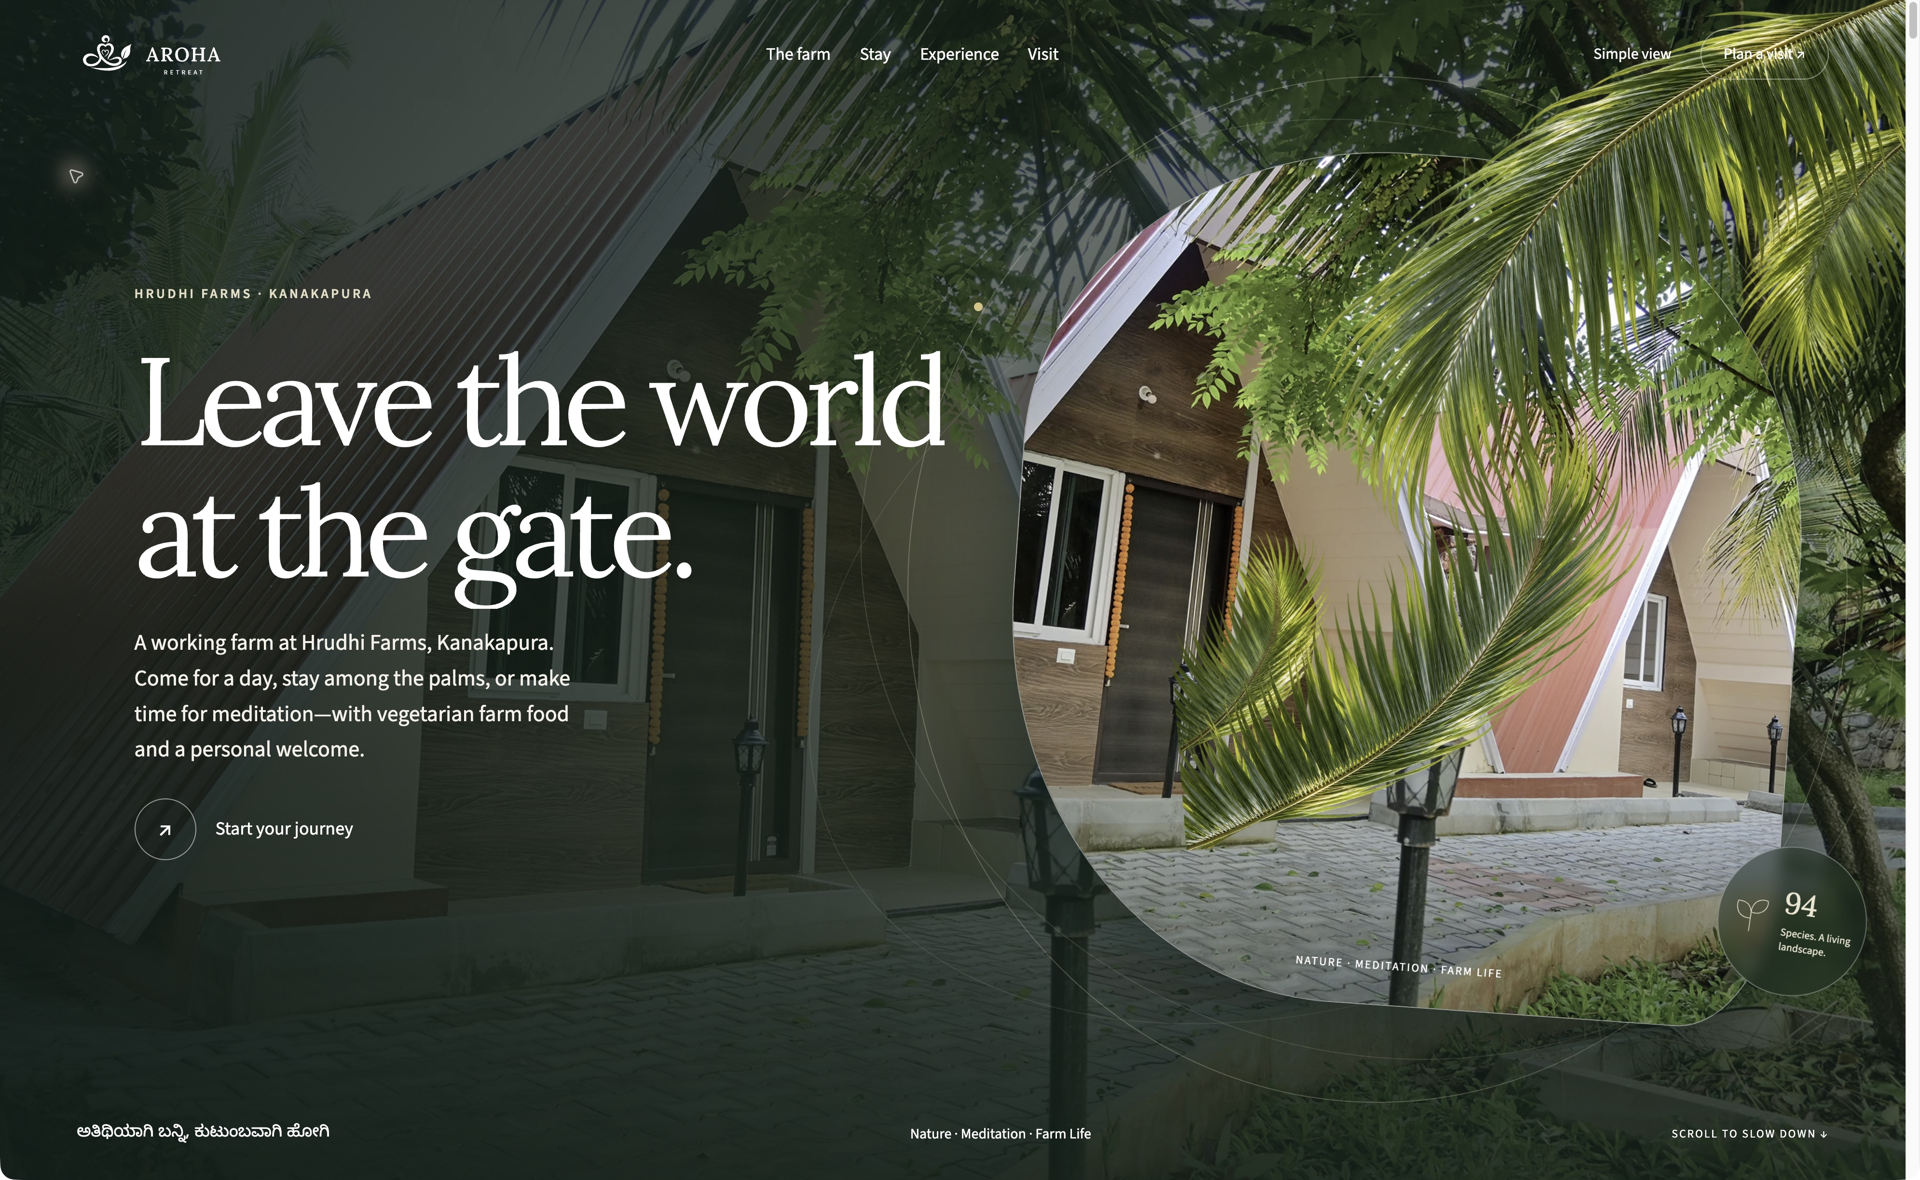
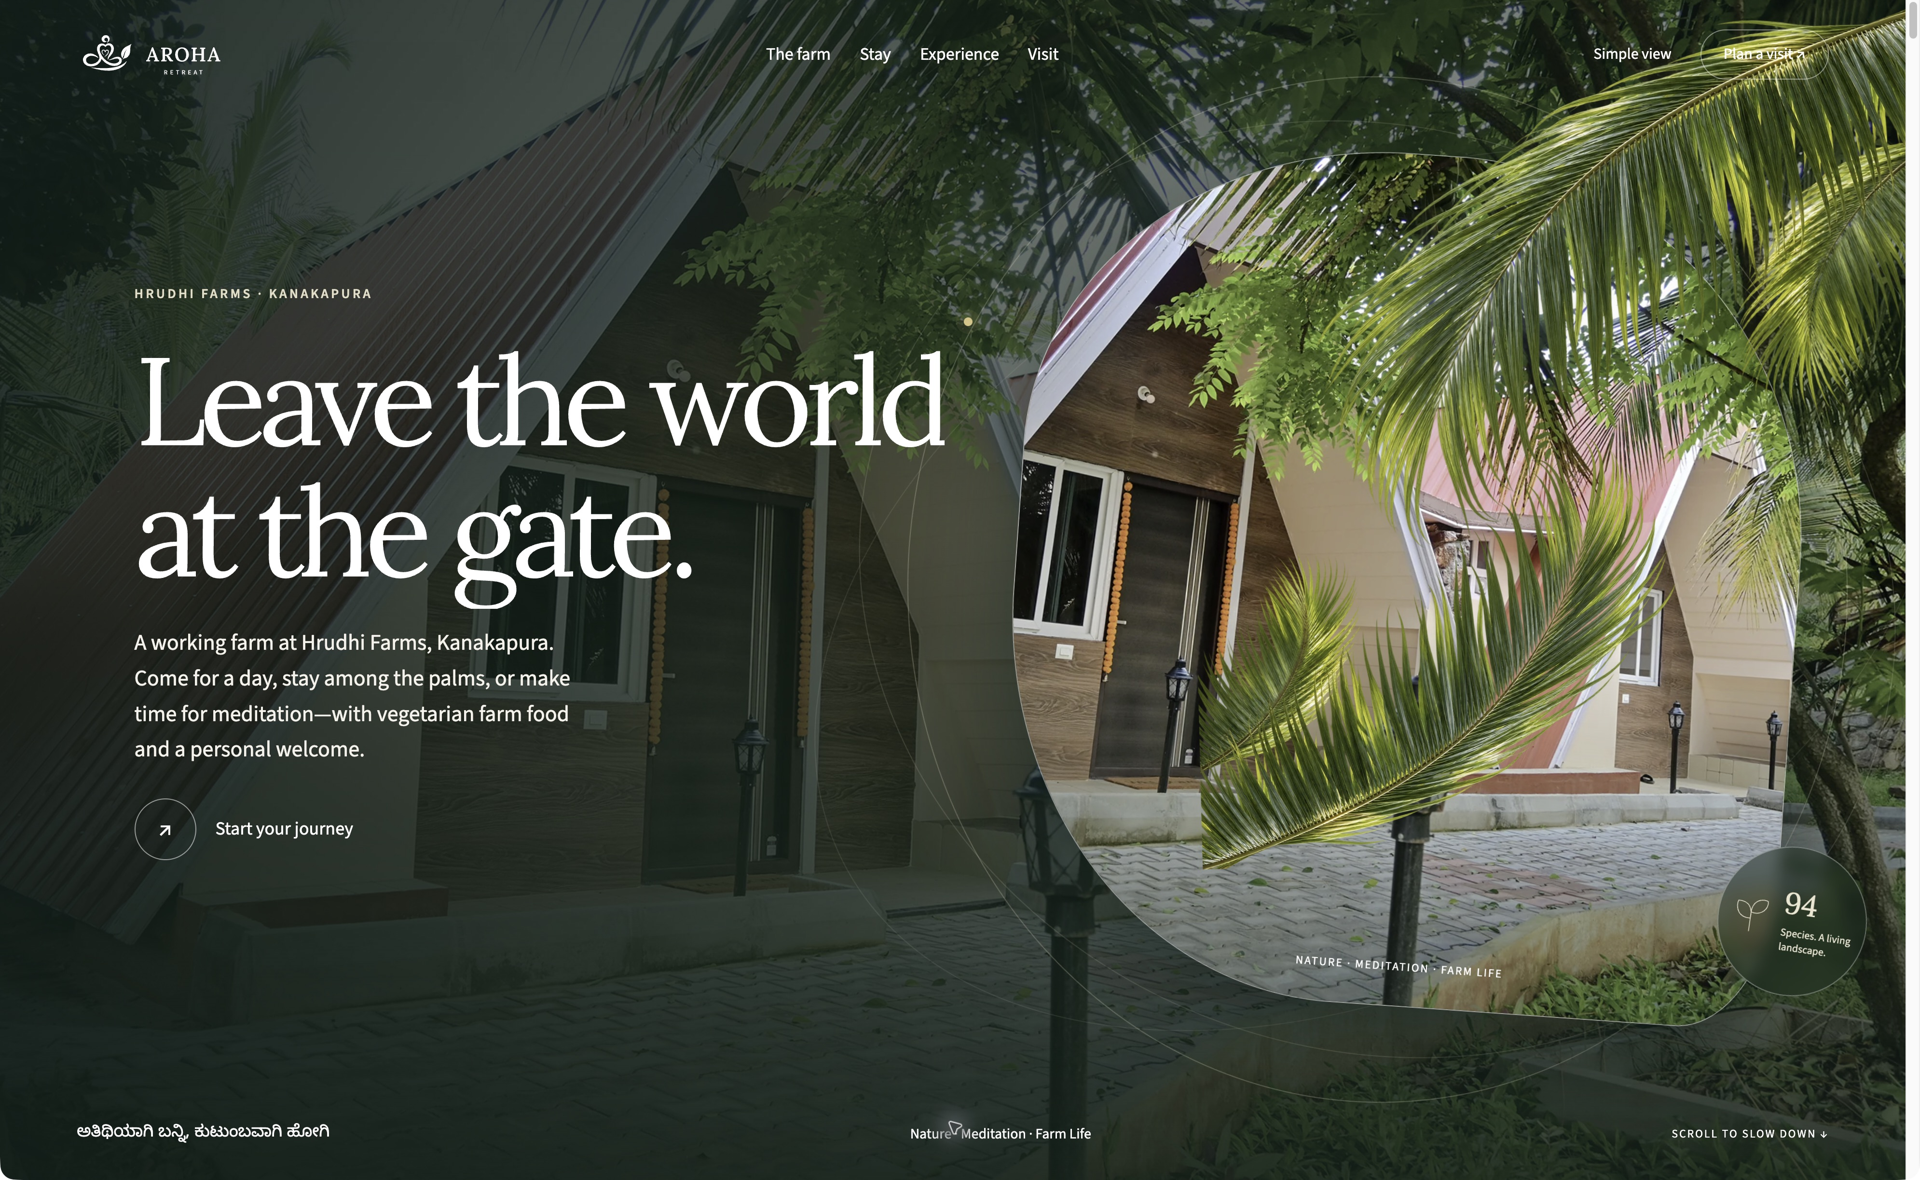
docs(website): verify final motion preview and viewport fix

diff --git a/release-evidence/aroha-0.6.0/deployment.md b/release-evidence/aroha-0.6.0/deployment.md
@@ -2,21 +2,21 @@
 
 - Preview: https://aroha-retreat--real-farm-048kl7ga.web.app
 - Website: 0.6.0
-- Deployed application revision: `99aeb11aa8356e3d8afe5aeae7c6e1494896781d`
-- Hosting version: `d76e481d40d7ff53`
-- Channel: `real-farm`; expiry 8 November 2026 at 14:49:05 (CLI local time, Asia/Kolkata).
+- Deployed application revision: `948e9f636e23f8ed6defdf1c6ab85f916a4f92ff`
+- Hosting version: `31f428e03faccab6`
+- Channel: `real-farm`; expiry 8 November 2026 at 14:57:30 (CLI local time, Asia/Kolkata).
 - Full shared build used `AROHA_BUILD_REVISION` with that exact committed revision. Root, admin and Natura design are in the same immutable Hosting artifact. No API/rules/production Hosting deployment was run.
 
 ## Verification
 
 107 deployed files match local SHA-256 bytes, including root/admin/design HTML, release/runtime metadata, website JS/CSS/chunks, fonts/brand assets, the referenced real photo/video library and both new botanical derivatives. Release metadata identifies the exact application revision. A real video byte-range request returns 206 and the requested 1,024 bytes. See `preview-verification.json` for individual hashes and content range. Production's separately fetched release remains 0.1.0.
 
-Native Chrome on the deployed preview shows the sprout welcome, automatic release to the shaped hero, the revolving photo gallery, destination change to parking and direct navigation to tree houses. Step inside opens the stairs film; selecting Open the door changes the selected film, and closing returns focus to Step inside at the same tree-house destination. `live-hero.png` and `live-tour.png` are content-only crops from this actual preview, not mockups. Detailed responsive and Simple View checks are local iframe/native Chrome evidence described in `review.md`; no physical-device or FPS certification.
+Native Chrome on the deployed preview shows the sprout welcome, automatic release to the shaped hero, successful Skip with focus transferred to Start your journey, the revolving photo gallery, destination change to parking and direct navigation to tree houses. Step inside opens the stairs film; selecting Open the door changes the selected film, and closing returns focus to Step inside at the same tree-house destination. `live-hero.png` is the final application revision. `live-tour.png` is the preceding 0.6 deployment, which has the same visual composition before the viewport-preservation fix; both are content-only native Chrome crops, not mockups. The viewport fix was directly checked locally across desktop → 390 × 844 → desktop, retaining tree houses throughout. Detailed responsive and Simple View checks are local iframe/native Chrome evidence described in `review.md`; no physical-device or FPS certification.
 
 ## GitHub checks on deployed code
 
-- [foundation passed](https://github.com/ArohaRetreat/natura/actions/runs/41292537452/job/124806564442)
-- [application passed](https://github.com/ArohaRetreat/natura/actions/runs/41292537475/job/124806563855)
-- [website-integration passed](https://github.com/ArohaRetreat/natura/actions/runs/41292537475/job/124806563702)
+- [foundation passed](https://github.com/ArohaRetreat/natura/actions/runs/41293186004/job/124808507491)
+- [application passed](https://github.com/ArohaRetreat/natura/actions/runs/41293186063/job/124808508107)
+- [website-integration passed](https://github.com/ArohaRetreat/natura/actions/runs/41293186063/job/124808508454)
 
 Subsequent evidence-only commits do not change the deployed application. Their current-head check status is available on PR #17; do not infer it from the code checks above. PR is unmerged and issue #16 remains open. Production backend schema/video-rule rollout, real owner OAuth/publication, visual acceptance and full browser-to-backend RUM linkage remain separate open gates. Preview RUM is disabled by the ignored runtime override. No guest message, booking, payment or membership change was made during review.
